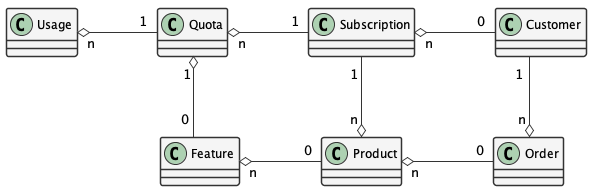
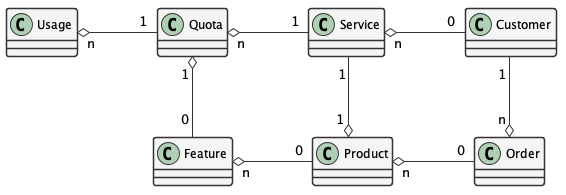
Change Subscriptions to Services.

diff --git a/membership-plan-management.rst b/membership-plan-management.rst
@@ -7,12 +7,12 @@ Membership Plan Management
 Overview
 --------
 
-To support ongoing operations, DataONE offers paid services for memberships alongside free services. This document outlines the design and implementation details needed to offer and manage these services. It describes the ``Products``, ``Customers``, ``Subscriptions``, ``Quotas``, ``Usages``, and ``Orders`` that DataONE needs to track. This documents:
+To support ongoing operations, DataONE offers paid services for memberships alongside free services. This document outlines the design and implementation details needed to offer and manage these services. It describes the ``Products``, ``Customers``, ``Services``, ``Quotas``, ``Usages``, and ``Orders`` that DataONE needs to track. This documents:
 
 - What service ``Products`` are available for purchase
 - What ``Products`` a ``Customer`` purchased in an ``Order``
-- What ``Subscriptions`` are established for a ``Customer`` for a ``Product``
-- What ``Quota`` limits are set for ``Customers`` per ``Subscription``.
+- What ``Services`` are established for a ``Customer`` for a ``Product``
+- What ``Quota`` limits are set for ``Customers`` per ``Service``.
 - What ``Usages`` are associated with a given ``Quota``
 
 The following diagram shows the membership and payment records stored by DataONE and their relationships.
@@ -26,7 +26,7 @@ The following diagram shows the membership and payment records stored by DataONE
     }
     class Customer {
     }
-    class Subscription {
+    class Service {
     }
     class Order {
     }
@@ -38,9 +38,9 @@ The following diagram shows the membership and payment records stored by DataONE
 
     Customer "1" --o "n" Order : "          "
     Order "0" -right-o "n" Product : "          "
-    Customer "0" -right-o "n" Subscription : "          "
-    Subscription "1" -up-o "n" Product : "          "
-    Subscription "1" -right-o "n" Quota : "          "
+    Customer "0" -right-o "n" Service : "          "
+    Service "1" -up-o "1" Product : "          "
+    Service "1" -right-o "n" Quota : "          "
     Quota "1" -right-o "n" Usage : "          "
     Product "0" -right-o "n" Feature : "          "
     Feature "0" -down-o "1" Quota : "          "
@@ -70,7 +70,7 @@ Product REST endpoints:
     !include ./plantuml-styles.txt
 
     class Product {
-        id: string
+        id: integer
         object: string
         active: boolean
         amount: integer
@@ -95,7 +95,7 @@ An example ``Product``:
 .. code:: json
 
     {
-        "id": "725C2F79-7E0B-4018-94F3-C16D05F23CCC",
+        "id": 1,
         "object": "product",
         "active": true,
         "name": "Organization",
@@ -153,7 +153,7 @@ An example ``Product``:
 Customers
 ---------
 
-``Customers`` are identified by a DataONE account (by ORCID identifier), and are associated with ``Orders`` that they make for free or purchased ``Products``.  When an ``Order`` is completed, the ``Customer`` is associated with a ``Subscription`` which links the ordered ``Product`` to the ``Customer`` and the associated ``Quota`` limits.
+``Customers`` are identified by a DataONE account (by ORCID identifier), and are associated with ``Orders`` that they make for free or purchased ``Products``.  When an ``Order`` is completed, the ``Customer`` is associated with a ``Service`` which links the ordered ``Product`` to the ``Customer`` and the associated ``Quota`` limits.
  
 Customer REST endpoints:
 
@@ -172,7 +172,7 @@ Customer REST endpoints:
     !include ./plantuml-styles.txt
 
     class Customer {
-        id: string
+        id: integer
         object: string
         balance: integer
         address: hash
@@ -225,29 +225,29 @@ An example ``Customer``:
         "phone": "805-893-2500"
     }
     
-Subscriptions
+Services
 -------------
 
-``Subscriptions`` represent a ``Product`` that has been ordered by a ``Customer`` and is paid for on a recurring basis.  A ``Subscription`` records the creation and cancelation dates, and can  an optional ``Discount``.  They may also be the ``Quota`` defined in the subscribed  ``Product``, along with the ``Usage`` of the limited resource. 
+``Services`` represent a ``Product`` that has been ordered by a ``Customer`` and is paid for on a recurring basis.  A ``Service`` records the creation and cancelation dates, and can  an optional ``Discount``.  They may also be the ``Quota`` defined in the subscribed  ``Product``, along with the ``Usage`` of the limited resource. 
 
-Subscription REST endoints:
+Service REST endoints:
 
 .. code::
     
-    SubscriptionList = listSubscriptions():  GET    /subscriptions
-    SubscriptionList = listSubscriptions():  GET    /subscriptions?customerId=:customerId
-    SubscriptionList = listSubscriptions():  GET    /subscriptions?subject=:subject
-    Subscription     = createSubscription(): POST   /subscriptions
-    Subscription     = getSubscription():    GET    /subscriptions/:id
-    Subscription     = updateSubscription(): PUT    /subscriptions/:id
-    boolean          = cancelSubscription(): DELETE /subscriptions/:id
+    ServiceList = listServices():  GET    /services
+    ServiceList = listServices():  GET    /services?customerId=:customerId
+    ServiceList = listServices():  GET    /services?subject=:subject
+    Service     = createService(): POST   /services
+    Service     = getService():    GET    /services/:id
+    Service     = updateService(): PUT    /services/:id
+    boolean          = cancelService(): DELETE /services/:id
 
 ..
-    @startuml images/subscription.png
+    @startuml images/service.png
     !include ./plantuml-styles.txt
 
-    class Subscription {
-        id: string
+    class Service {
+        id: integer
         object: string
         'billingCycleAnchor: timestamp
         canceledAt: timestamp
@@ -272,15 +272,15 @@ Subscription REST endoints:
     }
     @enduml
 
-.. image:: images/subscription.png
+.. image:: images/service.png
 
-An example ``Subscription``:
+An example ``Service``:
 
 .. code:: json
     
     {
         "id": 10,
-        "object": "subscription",
+        "object": "service",
         "canceledAt": null,
         "collectionMethod": "send_invoice",
         "created": 1568066038,
@@ -303,42 +303,42 @@ Quotas
 
     Note: The usage harvest schedule is to be determined, but calculating usage once per hour or once per day may be appropriate.
 
-``Quotas`` are established through ``Subscriptions``, where a ``Customer`` subscribes to ``Products``. Multiple ``Quotas`` can be associated with a given ``Subscription``.
+``Quotas`` are established through ``Services``, where a ``Customer`` subscribes to ``Products``. Multiple ``Quotas`` can be associated with a given ``Service``.
 
 Quota REST endpoints:
 
 .. code::
     
-    QuotaList = listQuotas():   GET     /quotas
-    QuotaList = listQuotas():   GET     /quotas?subscriptionId=:subscriptionId
-    QuotaList = listQuotas():   GET     /quotas?subject=:subject
+    QuotaList = listQuotas():   GET     /quotas?\
+                                            subscribers=:subscribers&\
+                                            quotaType=:quotaType&\
+                                            requestors=:requestors
     Quota     = createQuota():  POST    /quotas
     Quota     = getQuota():     GET     /quotas/:id
     Quota     = updateQuota():  PUT     /quotas/:id
     boolean   = deleteQuota():  DELETE  /quotas/:id
-    UsageList = listUsages():   GET     /quotas/:name/usage?subject=:subject
-    Usage     = getUsage():     GET     /quotas/:name/usage?instanceId=:instanceId
-    Quota     = hasRemaining(): GET     /quotas/:name/usage/remaining?\              
-                                            subject=:subject&\
-                                            submitterSubject=:submitterSubject&\
-                                            requestedUsage=:requestedUsage
-    Quota     = updateUsage():  PUT     /quotas/:id/usage?usage=:usage
-    boolean   = deleteUsage():  DELETE  /quotas/:id/usage?usageId=:usageId
+    Usage     = getUsage():     GET     /quotas/usage/:id
+    UsageList = listUsage():    GET     /quotas/usage?name=:name\
+                                            &instanceId=:instanceId&\
+                                            serviceSubject=:serviceSubject
+    Usage     = createUsage():  POST    /quotas/usage
+    Usage     = updateUsage():  PUT     /quotas/usage/:id
+    boolean   = deleteUsage():  DELETE  /quotas/usage/:id
 
 ..
     @startuml images/quota.png
     !include ./plantuml-styles.txt
 
     class Quota {
-        id: string
+        id: integer
         object: string
-        name: string
+        quotaType: string
         softLimit: double
         hardLimit: double
         usage: double
         unit: string
-        subscriptionId: integer
-        subject: string
+        serviceId: integer
+        serviceSubject: string
     }
     @enduml
 
@@ -357,9 +357,9 @@ Managing Shared Quotas
 In the case of shared quotas where a resource (like storage) is to be applied to a group of users,
 client applications should set the appropriate `HTTP extension header field`_ during a call to the ``MNStorage`` methods of ``create()``, ``update()``, and ``delete()``. The DataONE custom HTTP extension header is:
 
-- ``X-DataONE-Quota-Subject``: The ``Subject`` to apply the quota usage against.
+- ``X-DataONE-Service-Subject``: The ``Subject`` to apply the quota usage against.
 
-The value of the above extension header for each object should be set to the DataONE group identifier of the shared quota (e.g. ``CN=budden-lab,DC=dataone,DC=org``).  Typically, all calls to ``create()`` or ``update()`` should include the ``X-DataONE-Quota-Subject`` unless applying the storage to the ``submitter`` ``Subject's`` quota is desired.
+The value of the above extension header for each object should be set to the DataONE group identifier of the shared quota (e.g. ``CN=budden-lab,DC=dataone,DC=org``).  Typically, all calls to ``create()`` or ``update()`` should include the ``X-DataONE-Service-Subject`` unless applying the storage to the ``submitter`` ``Subject's`` quota is desired.
 
 .. _`HTTP extension header field`: https://tools.ietf.org/html/rfc2616#section-4.2
 
@@ -383,15 +383,27 @@ Usages
 
 ``Usages`` track which items use a portion of a ``Quota``.  For instance, for a ``portal`` quota, the object identifier of the portal document would be recorded as the instance of a portal that uses a portion of the total quota.  A ``Usage`` object is associated with one ``Quota``.
 
+.. code::
+
+    Usage     = getUsage():     GET     /usages/:id
+    UsageList = listUsages():    GET     /usages?quotaType=:quotaType\
+                                            &instanceId=:instanceId&\
+                                            subscribers=:subscribers&\
+                                            status=:status
+    Usage     = createUsage():  POST    /usages
+    Usage     = updateUsage():  PUT     /usages/:id
+    boolean   = deleteUsage():  DELETE  /usages/:id
+
 ..
     @startuml images/usage.png
     !include ./plantuml-styles.txt
 
     class Usage {
-        id: integer
+        id: bigint
         object: string
         quotaId: integer
         instanceId: string
+        nodeId: string
         quantity: double
         status: string
     }
@@ -408,6 +420,7 @@ An example 1TB ``Usage`` instance:
         "object": "usage",
         "quotaId": 1,
         "instanceId": "urn:uuid:56925d4b-9e46-49ec-96ea-38dc9ed0a64c",
+        "nodeId": "urn:node:KNB",
         "quantity": 1099511627776.0,
         "status": "active"
     }
@@ -681,14 +694,14 @@ The following sequence diagram outlines the steps needed for a client to create 
         activate Bookkeeper
             Bookkeeper -> Bookkeeper : updateOrder(status = paid)
             loop for product in products
-                Bookkeeper -> Bookkeeper : subscription = subscribe(customer, product)
-                Bookkeeper -> Bookkeeper : createQuota(subscription, product)
+                Bookkeeper -> Bookkeeper : service = subscribe(customer, product)
+                Bookkeeper -> Bookkeeper : createQuota(service, product)
                 note left
                     Quotas are created for each product
                     for the customer Subject. Group
                     Subject quotas are established for
                     group resources (portals, storage, etc.)
-                    by updating the subscription.
+                    by updating the service.
                 end note
             end
         deactivate Bookkeeper
